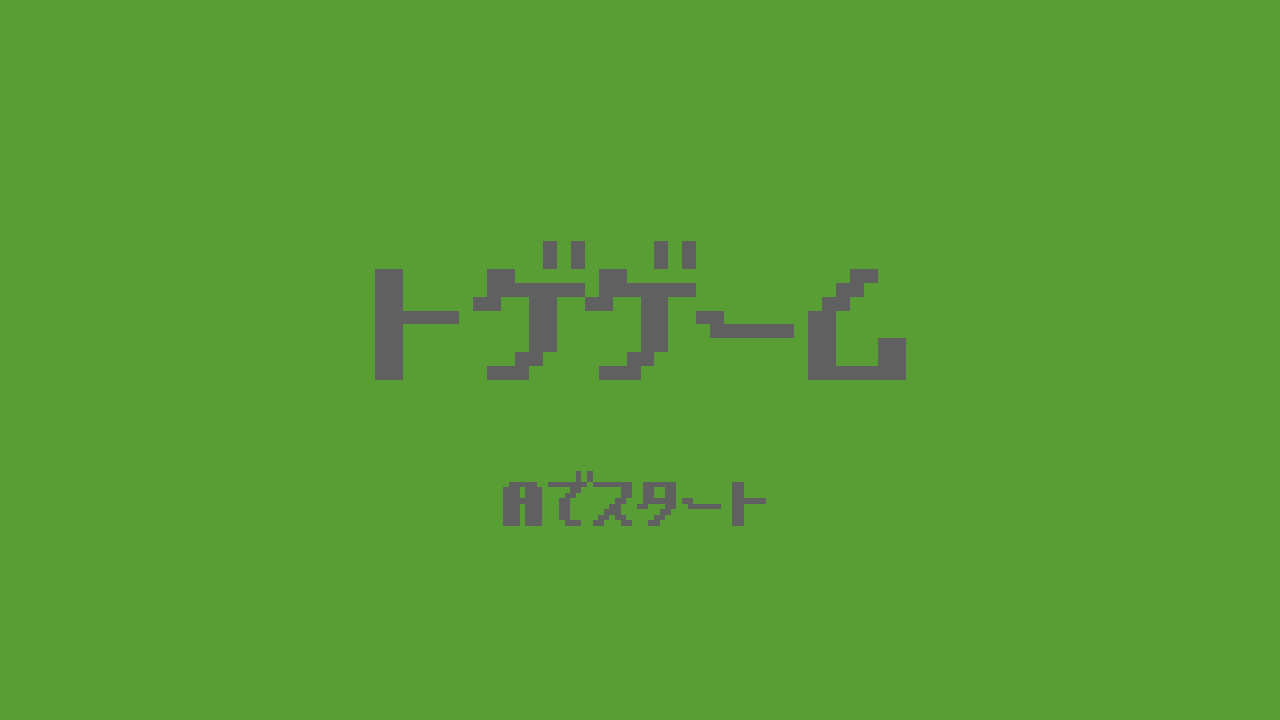
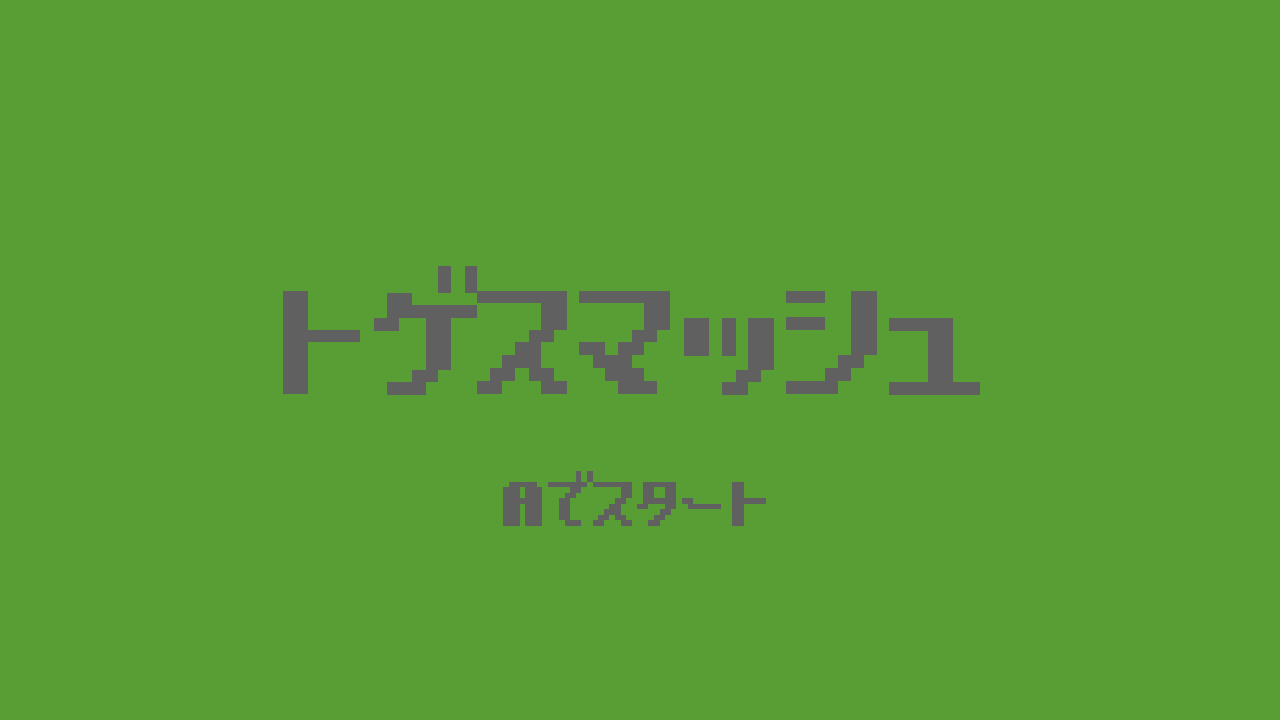
トゲスマッシュ

Changed region(s): [[0.2188, 0.3361, 0.7812, 0.55]]

diff --git a/main.cpp b/main.cpp
@@ -1,6 +1,6 @@
 #include "main.h"
 
-const char kWindowTitle[] = "トゲ";
+const char kWindowTitle[] = "トゲスマッシュ";
 
 // Windowsアプリでのエントリーポイント(main関数)
 int WINAPI WinMain(HINSTANCE, HINSTANCE, LPSTR, int) {
